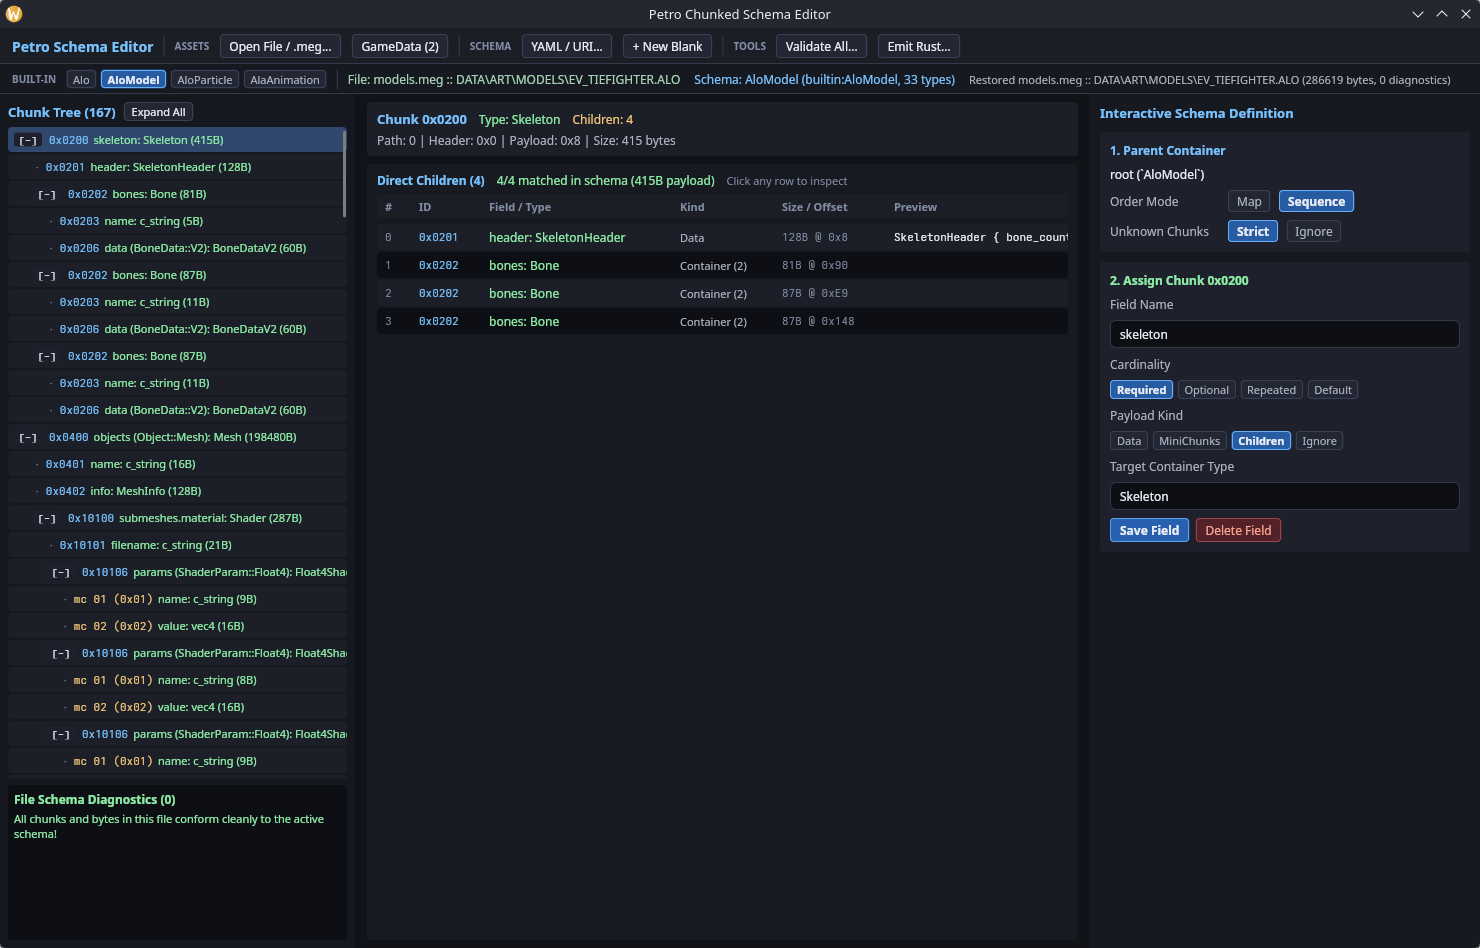
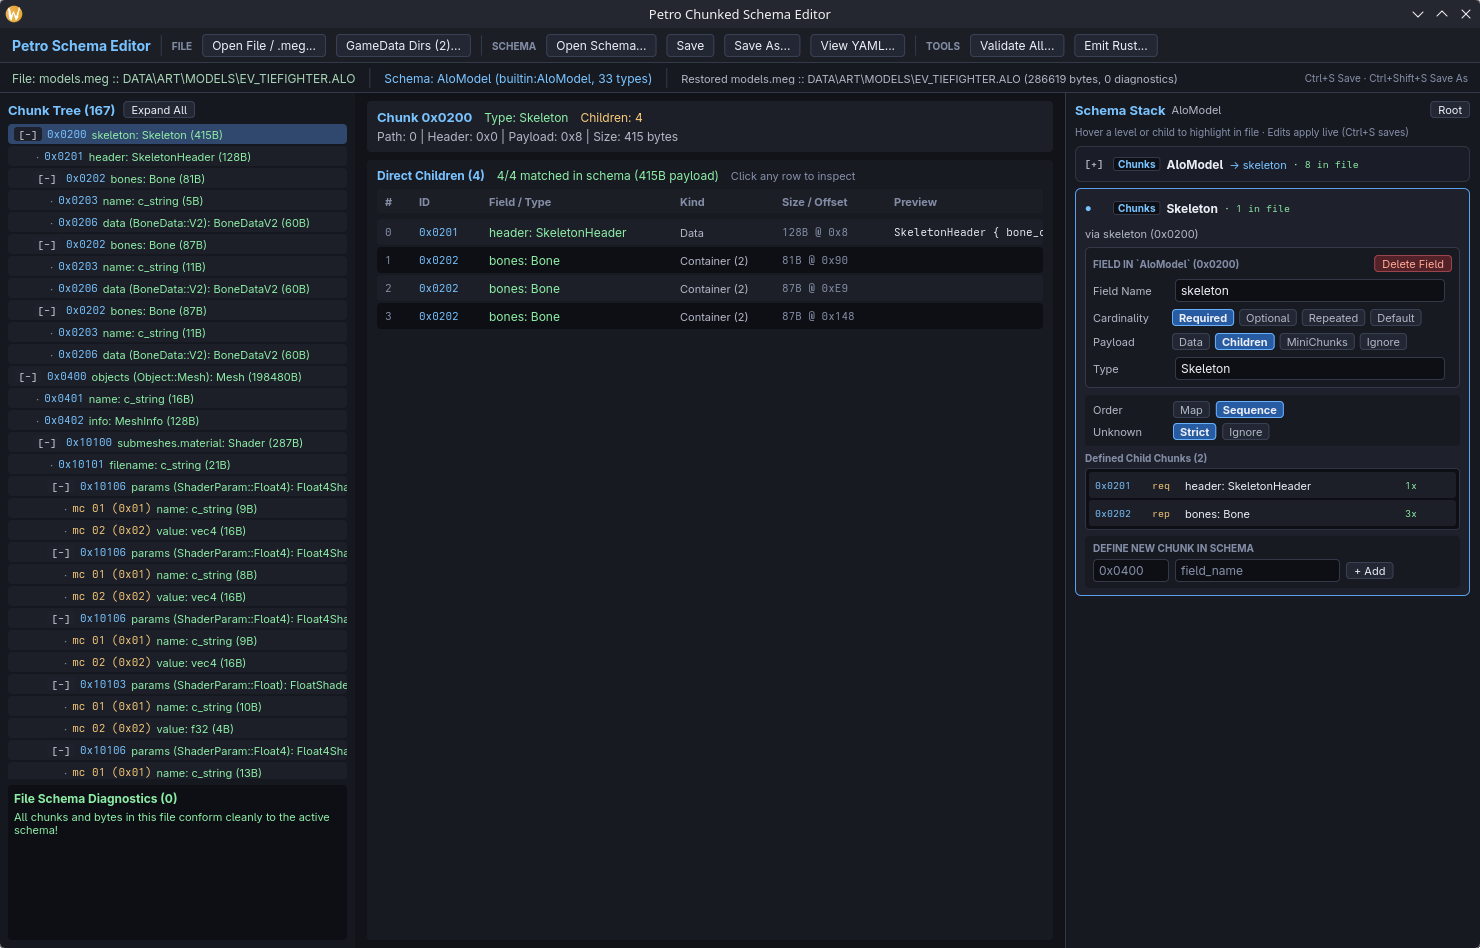
Refresh editor screenshots and README for Freya 0.5 multi-window UI and schema stack

Changed region(s): [[0.0, 0.0306, 0.9946, 0.8871], [0.4662, 0.2447, 0.4973, 0.3671], [0.9014, 0.5812, 0.9324, 0.6118]]

diff --git a/petro-chunked-schema-editor/README.md b/petro-chunked-schema-editor/README.md
@@ -1,8 +1,8 @@
 # `petro-chunked-schema-editor`
 
-Interactive [`freya`](https://freyaui.dev/)-based GUI schema editor, binary hex inspector, and CLI batch validator for Petroglyph's chunked binary file formats, built on `petro-chunked-schema` and `petro-meg`.
+Interactive [`freya`](https://freyaui.dev/) 0.5 multi-window GUI schema editor, binary hex inspector, and CLI batch validator for Petroglyph's chunked binary file formats, built on `petro-chunked-schema` and `petro-meg`.
 
-![Three-pane workspace inspecting MeshInfo chunk spans, live cursor byte preview, and interactive schema definition cards](./docs/screenshots/workspace-inspector.png)
+![Three-pane workspace inspecting MeshInfo chunk spans, live cursor byte preview, and the non-indenting right-rail Schema Stack](./docs/screenshots/workspace-inspector.png)
 
 ## Quick CLI Usage
 
@@ -23,33 +23,45 @@ petro-chunked-schema-editor --schema ./custom.yaml --file ./sample.map
 petro-chunked-schema-editor --schema file:builtin:local.yaml --emit-rust
 ```
 
+### Keyboard Shortcuts
+
+- **`Ctrl+S`**: Save the active schema to its current YAML file (or open the freestanding **Save Schema As** window if editing a built-in or unsaved schema).
+- **`Ctrl+Shift+S`**: Open the freestanding **Save Schema As** window.
+- **`Escape`**: Close the active freestanding dialog window (canceling any pending schema replacement).
+
 ---
 
 ## UI Tour
 
+### Non-Indenting Schema Stack, Absent Definitions & Hover Synchronization
+
+The right rail mirrors the left file tree as a **non-indenting vertical stack of equal-width cards** from the schema root down to the currently focused level. Ancestor cards stay collapsed by default and can be expanded to inspect **every** defined child field or enum variant—including optional or unrepresented definitions (`0x` in the current file, such as `Light`)—and click to switch levels or edit them live in memory. Hovering any schema level or child row highlights every matching chunk/mini-chunk row across the left-rail `Chunk Tree`.
+
+![Expanded Object enum in the right-rail Schema Stack showing absent Light variant and synchronized left-rail match highlights](./docs/screenshots/schema-stack-hover.png)
+
 ### Container Children Overview
 
-Selecting a 32-bit container chunk renders a clickable table of its immediate children (`#`, chunk ID, schema field/type, child kind, byte size/offset, and leaf value preview) alongside radio-style container and field controls.
+Selecting a 32-bit container chunk renders a clickable table of its immediate children (`#`, chunk ID, schema field/type, child kind, byte size/offset, and leaf value preview) alongside live auto-applying container and field controls.
 
 ![Container chunk direct children overview table in the center pane](./docs/screenshots/container-overview.png)
 
-### Loose File & In-Memory `.meg` Browser
+### Freestanding Disk & Browse-Into-`.meg` File Browser
 
-Browse loose files or filter Petroglyph `.meg` archives across configured `GameData` directories by extension and filename substring without extracting archives to disk.
+Browse local directories and step directly inside Petroglyph `.meg` archives as virtual folders (`models.meg / DATA / ART / MODELS`) with quick places, clickable breadcrumbs, extension filters, and recursive in-`.meg` substring search—without extracting files to disk.
 
-![Loose file and in-memory .meg archive browser modal](./docs/screenshots/file-browser.png)
+![Freestanding file browser window stepped inside models.meg virtual directories](./docs/screenshots/file-browser.png)
 
-### Batch Validation Across Game Assets
+### Unified Freestanding Open Schema Window
 
-Test any built-in or custom schema over every matching asset across configured `GameData` folders and `.meg` archives—for example validating all 2,073 `.alo` models and particle systems under the combined `builtin:Alo` dispatcher.
+Switch between embedded built-in schemas (`Alo`, `AloModel`, `AloParticle`, `AlaAnimation`), start a blank scratchpad schema, browse `.yaml` files on disk, or enter a `SchemaRef` URI—guarded by an **Unsaved Schema Changes** confirmation dialog whenever the active in-memory schema has unsaved edits.
 
-![Batch validation modal showing 2,073/2,073 .alo files passing under builtin:Alo](./docs/screenshots/batch-validate.png)
+![Freestanding Open Schema window combining built-in formats and a YAML file browser](./docs/screenshots/open-schema.png)
 
-### Live `petro-chunked-derive` Rust Code Generation
+### Live Freestanding `petro-chunked-derive` Rust Codegen Window
 
-Inspect and export `prettyplease`-formatted `petro-chunked-derive` Rust definitions (including imported submodules for schemas such as `builtin:Alo`) directly from the active schema.
+Inspect and export `prettyplease`-formatted `petro-chunked-derive` Rust definitions in a separate native OS window that updates live as you edit the schema in the main window.
 
-![Generated petro-chunked-derive Rust code modal](./docs/screenshots/rust-codegen.png)
+![Freestanding Generated Rust Code window showing prettyplease-formatted petro-chunked-derive output](./docs/screenshots/rust-codegen.png)
 
 ---
 
@@ -57,63 +69,70 @@ Inspect and export `prettyplease`-formatted `petro-chunked-derive` Rust definiti
 
 ### 1. Three-Layer Separation
 
-The binary is organized into three layers so headless validation, schema editing semantics, and rendering stay independent:
+The binary is organized into three layers so headless validation, virtual filesystem browsing, schema navigation/editing semantics, and Freya 0.5 rendering stay independent:
 
 ```text
   ┌─────────────────────────────────────────────────────────────────────┐
-  │ Presentation Layer (`ui/`)                                          │
-  │   Toolbar + StatusBar + Modals + 3-Pane Workspace (Freya components)│
+  │ Presentation Layer (`ui/`) — Freya 0.5 Multi-Window Builder API     │
+  │   Main Window (Toolbar + StatusBar + 3-Pane Workspace)              │
+  │   + Freestanding Modal Windows (File/.meg, GameData, Schema, Tools) │
   └───────────────┬───────────────────────────────────┬─────────────────┘
-                  │ reads / mutates signals           │ reads projections
+                  │ reads / mutates global State      │ reads projections
                   ▼                                   ▼
   ┌───────────────────────────────┐   ┌─────────────────────────────────┐
-  │ I/O, Persistence & CLI        │   │ Schema Operations (`editor_ops`)  │
-  │ (`cli`, `state`, `gamedata`)  │◄──┤   Tree flattening, span lookup, │
-  │   • Builtin & file SchemaRef  │   │   child overview projection,    │
-  │   • In-memory .meg reading    │   │   typed field upserts/deletes,  │
-  │   • Per-file overrides & JSON │   │   parent-first type creation    │
+  │ I/O, Browsing & CLI           │   │ Schema Ops & Stack Nav          │
+  │ (`cli`, `state`, `gamedata`,  │◄──┤ (`editor_ops`, `schema_nav`)    │
+  │  `browser`)                   │   │   • Tree flattening & spans     │
+  │   • Builtin & file SchemaRef  │   │   • Child overview projection   │
+  │   • Virtual disk + .meg tree  │   │   • Non-indenting stack builder │
+  │   • Batch validation          │   │   • Absent-definition listing   │
+  │   • `directories` persistence │   │   • Hover-target matching       │
   └───────────────────────────────┘   └─────────────────────────────────┘
 ```
 
-1. **I/O, Persistence & CLI (`cli`, `state`, `gamedata`)**
-   Resolves schemas via `SchemaRef`, scans `GameData` folders and `.meg` archives purely in memory (`petro-meg`), runs multi-file validation (`run_batch_validation`), and persists session state (`PersistedState`) under XDG config directories—remembering the last file, active `SchemaRef`, unsaved schema draft, `GameData` directories, and per-file `force_plain_data_paths` overrides.
+1. **I/O, Virtual Browsing, Persistence & CLI (`cli`, `state`, `gamedata`, `browser`)**
+   Resolves schemas via `SchemaRef`, navigates both disk directories and virtual `.meg` archive folder hierarchies (`BrowseLocation::DiskDir` / `BrowseLocation::MegDir`), runs in-memory batch validation (`run_batch_validation`), and persists session state (`PersistedState`) using canonical OS paths via [`directories::ProjectDirs`].
 
-2. **Schema Operations & UI Projection (`editor_ops`)**
-   Pure functions translating a parsed `DynamicFile` + `ResolvedSchema` into flat rows for the chunk tree (`build_flat_tree`) and resolved editing context + direct children summaries (`SelectedNodeDetails`, `ChildSummaryRow`, `resolve_selected_node`). Also implements schema edits (`upsert_chunk_field`, `delete_chunk_field`, `upsert_mini_chunk_field`, `delete_mini_chunk_field`, `append_field_to_node_byte_block`, `set_byte_block_pad_after`), automatically inserting new child containers immediately after their parent (`insert_type_after`) and guarding read-only imported nodes (`SchemaId != ROOT`).
+2. **Schema Operations & Stack Navigation (`editor_ops`, `schema_nav`)**
+   Pure functions translating a parsed `DynamicFile` + `ResolvedSchema` into flat rows for the chunk tree (`build_flat_tree`), direct children summaries (`ChildSummaryRow`, `SelectedNodeDetails`), ancestor schema stacks (`resolve_schema_stack_for_file_node`, `refresh_schema_stack`), full child/variant listings including `0`-match absent definitions (`list_level_children`), and multi-row hover matching (`matches_hover_target`). Schema mutations (`upsert_chunk_field`, `delete_chunk_field`, `upsert_mini_chunk_field`, `delete_mini_chunk_field`, `append_field_to_node_byte_block`, `set_byte_block_pad_after`) preserve parents-before-children ordering and guard imported modules (`SchemaId != ROOT`).
 
-3. **Freya Presentation (`ui/`)**
-   Declarative dark-themed GUI built from cohesive panes, modals, and shared widgets (`ActionButton`, `SegmentedChip`, `StyledInput`, `ToolbarDivider`, `GroupCaption`).
+3. **Freya 0.5 Multi-Window Presentation (`ui/`)**
+   Strongly-typed dark-themed UI built with Freya 0.5's builder API, `State::create_global`, and native multi-window spawning (`Platform::get().launch_window`).
 
 ---
 
-### 2. Freya UI Component & State Architecture
+### 2. Freya 0.5 Multi-Window & State Architecture
 
-#### State Boundary
+#### Global Cross-Window State
 
-Rather than threading dozens of signals through deep prop lists, [`EditorState`](src/ui/context.rs) is created once at the root via Freya's context provider (`use_context_provider`). It owns shared reactive state (`persisted`, `schema`, `resolved_schema`, `dynamic_file`, `selected_tree_path`, `selected_byte_offset`, `active_modal`, `status_msg`, etc.) and exposes semantic domain methods (`open_file`, `load_schema_ref`, `start_blank_schema`, `mutate_schema`, `toggle_force_plain_data`, `select_node`, `jump_to_byte`, `toggle_collapse`).
+[`EditorState`](src/ui/context.rs) is created once via `State::create_global(...)` before `launch(...)` and provided to every OS window (`WindowConfig::with_root_context`). It owns shared reactive state (`persisted`, `schema`, `resolved_schema`, `saved_schema_yaml`, `is_schema_dirty`, `pending_schema_action`, `dynamic_file`, `selected_tree_path`, `schema_stack`, `expanded_stack_levels`, `hovered_schema_target`, `open_windows`, `status_msg`) and exposes semantic domain actions (`open_file`, `open_modal`, `request_load_schema_ref`, `request_new_blank_schema`, `save_schema`, `save_schema_as`, `mutate_schema`, `select_node`, `select_schema_child`, `focus_schema_level`, `set_hovered_schema_target`).
 
-Transient dialog inputs (search filters, directory text boxes, validation reports, YAML/Rust text buffers) stay encapsulated as local `use_signal` hooks inside each modal component so typing in a modal does not invalidate workspace panes.
+Because every window reads the same global reactive state, edits applied live in the main window immediately update open freestanding **View YAML** and **Emit Rust** windows, while transient dialog inputs (search filters, directory locations, filenames, validation reports) remain local `use_state` hooks inside each modal window.
 
-#### Component Hierarchy
+#### Window & Component Hierarchy
 
 ```text
-  app (ui::app)
-   ├── Toolbar                      Grouped ASSETS / SCHEMA / TOOLS command bar
-   ├── StatusBar                    BUILT-IN schema radio strip + active file/schema/status context
-   ├── ModalHost                    Modal backdrop & active modal dispatcher
-   │    ├── FileBrowserModal        Browse loose files & in-memory .meg entries across GameData dirs
-   │    ├── GameDataDirsModal       Manage GameData directories & auto-detect common installs
-   │    ├── BatchValidateModal      Run multi-file validation for an extension and inspect failures
-   │    ├── RustCodegenModal        Inspect & save generated petro-chunked-derive Rust source
-   │    └── YamlSchemaModal         Edit raw YAML, save to disk, or load by SchemaRef URI
-   └── Workspace                    Three-column synchronized inspector & schema editor
-        ├── ChunkTreePane           Hierarchical chunk/mini-chunk tree (`ChunkTreeRow`)
-        │                           + validation errors (`DiagnosticsPanel`)
-        ├── HexInspectorPane        `NodeHeaderBar` + `ContainerOverviewPanel` (for container chunks)
-        │                           or `MiniChunkStripPanel` + `SpanLegend` + `HexPaginationBar`
-        │                           + color-coded `HexGrid` + `BytePreviewPanel` (for leaf payloads)
-        └── SchemaEditorPane        Read-only notice for imports, or live editing cards with radio chips:
-                                    `ContainerSettingsCard`, `FieldAssignmentCard`, `ByteBlockEditorCard`
+  ui::launch_editor (LaunchConfig + global EditorState)
+   ├── Main Window (1480×920, Ctrl+S / Ctrl+Shift+S)
+   │    ├── Toolbar                 Grouped FILE / SCHEMA / TOOLS command bar (`Save*` dirty indicator)
+   │    ├── StatusBar               Active file, schema + dirty `*`, live status, shortcut hints
+   │    └── Workspace               Three-column synchronized inspector & schema stack
+   │         ├── ChunkTreePane      Hierarchical chunk/mini-chunk tree with right-rail hover glow
+   │         │                      + file schema diagnostics (`DiagnosticsPanel`)
+   │         ├── HexInspectorPane   Container direct-children table, or mini-chunk strip, span legend,
+   │         │                      paginated color-coded hex grid, and live cursor byte inspector
+   │         └── SchemaEditorPane   Non-indenting vertical stack of `SchemaStackCard`s with collapsible
+   │                                ancestors, absent child switching, live auto-apply field/ByteBlock
+   │                                editors, and mouseover hover sync
+   └── Freestanding Modal Windows (`Platform::get().launch_window`, Escape to close)
+        ├── FileBrowserWindow       Hierarchical disk + browse-into-`.meg` virtual folder browser
+        ├── GameDataDirsWindow      Configured GameData dirs list + visual folder picker & auto-detect
+        ├── OpenSchemaWindow        Built-in schemas + scratchpad + YAML file browser + manual URI
+        ├── SaveSchemaAsWindow      Visual directory & `.yaml` browser + filename input
+        ├── ConfirmDiscardWindow    Unsaved schema edits safeguard (`Save & Continue` / `Discard` / `Cancel`)
+        ├── YamlPreviewWindow       Live read-only YAML serialization viewer with `Save` / `Save As...`
+        ├── BatchValidateWindow     Multi-file validation over GameData dirs & `.meg` archives
+        └── RustCodegenWindow       Live `prettyplease`-formatted `petro-chunked-derive` Rust viewer/exporter
 ```
 
 ---
@@ -122,23 +141,28 @@ Transient dialog inputs (search filters, directory text boxes, validation report
 
 | Path | Responsibility |
 |---|---|
-| [`src/main.rs`](./src/main.rs) | Crate entrypoint routing between CLI mode and Freya window launch. |
+| [`src/main.rs`](./src/main.rs) | Crate entrypoint routing between CLI mode and Freya 0.5 multi-window launch. |
 | [`src/cli.rs`](./src/cli.rs) | `clap` CLI flags (`--schema`, `--file`, `--game-data`, `--validate`, `--emit-rust`) and headless runners. |
-| [`src/state.rs`](./src/state.rs) | Session persistence (`PersistedState`), `FileSource` (`Disk` / `MegEntry`), per-file plain-data overrides. |
-| [`src/gamedata.rs`](./src/gamedata.rs) | `.meg` + disk discovery, byte loading, `SchemaRef` loading/saving, and `run_batch_validation`. |
-| [`src/editor_ops.rs`](./src/editor_ops.rs) | Pure tree flattening, container child overview projection (`ChildSummaryRow`), node resolution, and schema mutation helpers. |
-| [`src/ui/mod.rs`](./src/ui/mod.rs) | Root `app` layout initializing `DARK_THEME` and wiring `Toolbar`, `StatusBar`, `ModalHost`, and `Workspace`. |
-| [`src/ui/theme.rs`](./src/ui/theme.rs) | Shared dark UI palette tokens, border styles, and color-coded byte span palette. |
-| [`src/ui/widgets.rs`](./src/ui/widgets.rs) | Shared styled primitives (`ActionButton`, `SegmentedChip`, `StyledInput`, `ToolbarDivider`, `GroupCaption`). |
-| [`src/ui/context.rs`](./src/ui/context.rs) | `EditorState` context provider and domain actions. |
-| [`src/ui/toolbar.rs`](./src/ui/toolbar.rs) | Grouped command toolbar (`ASSETS`, `SCHEMA`, `TOOLS`) and built-in radio strip / status bar. |
-| [`src/ui/modals/mod.rs`](./src/ui/modals/mod.rs) | Modal host wrapper and shared dialog frame (`ModalFrame`). |
-| [`src/ui/modals/file_browser.rs`](./src/ui/modals/file_browser.rs) | `FileBrowserModal` for loose & `.meg` assets. |
-| [`src/ui/modals/gamedata_dirs.rs`](./src/ui/modals/gamedata_dirs.rs) | `GameDataDirsModal` for directory configuration. |
-| [`src/ui/modals/batch_validate.rs`](./src/ui/modals/batch_validate.rs) | `BatchValidateModal` for batch validation and click-to-open failures. |
-| [`src/ui/modals/rust_codegen.rs`](./src/ui/modals/rust_codegen.rs) | `RustCodegenModal` displaying generated Rust code. |
-| [`src/ui/modals/yaml_schema.rs`](./src/ui/modals/yaml_schema.rs) | `YamlSchemaModal` for direct YAML editing, saving, and `SchemaRef` loading. |
+| [`src/state.rs`](./src/state.rs) | Session persistence (`PersistedState`) via `directories::ProjectDirs`, `FileSource` (`Disk` / `MegEntry`), per-file plain-data overrides. |
+| [`src/gamedata.rs`](./src/gamedata.rs) | In-memory `.meg` & disk byte loading, `SchemaRef` loading/saving, EAW/FoC auto-detection, and `run_batch_validation`. |
+| [`src/browser.rs`](./src/browser.rs) | Virtual filesystem & browse-into-`.meg` navigation (`BrowseLocation`, `list_location`, breadcrumbs, quick places). |
+| [`src/editor_ops.rs`](./src/editor_ops.rs) | Pure tree flattening (`FlatTreeRow`), container child overview (`ChildSummaryRow`), node resolution, and schema mutation helpers. |
+| [`src/schema_nav.rs`](./src/schema_nav.rs) | Schema-stack ancestor resolution (`SchemaStackStep`), absent-definition enumeration (`list_level_children`), and hover matching (`matches_hover_target`). |
+| [`src/ui/mod.rs`](./src/ui/mod.rs) | Multi-window `launch_editor` setup, global `Ctrl+S` / `Ctrl+Shift+S` handling, and main window shell. |
+| [`src/ui/theme.rs`](./src/ui/theme.rs) | Strongly-typed Freya 0.5 `Color` tokens, `Border` helpers, and byte-span color palette. |
+| [`src/ui/widgets.rs`](./src/ui/widgets.rs) | Shared styled primitives (`action_button`, `segmented_chip`, `styled_input`, `styled_input_live`, `toolbar_divider`, `group_caption`). |
+| [`src/ui/context.rs`](./src/ui/context.rs) | Cross-window global `EditorState`, freestanding window registry (`ModalKind`), dirty tracking, and domain actions. |
+| [`src/ui/toolbar.rs`](./src/ui/toolbar.rs) | Grouped `FILE` / `SCHEMA` / `TOOLS` command bar and session status bar. |
+| [`src/ui/modals/mod.rs`](./src/ui/modals/mod.rs) | Freestanding window root dispatcher (`modal_window_root`), `Escape` close hook, shared `browser_nav_bar`, and `quick_places_sidebar`. |
+| [`src/ui/modals/file_browser.rs`](./src/ui/modals/file_browser.rs) | `FileBrowserWindow` for browsing disk folders and stepping inside `.meg` archives. |
+| [`src/ui/modals/gamedata_dirs.rs`](./src/ui/modals/gamedata_dirs.rs) | `GameDataDirsWindow` with configured dirs list and visual folder picker. |
+| [`src/ui/modals/open_schema.rs`](./src/ui/modals/open_schema.rs) | `OpenSchemaWindow` unifying built-in formats, blank schema creation, and YAML browsing. |
+| [`src/ui/modals/save_schema_as.rs`](./src/ui/modals/save_schema_as.rs) | `SaveSchemaAsWindow` for choosing destination YAML files. |
+| [`src/ui/modals/confirm_discard.rs`](./src/ui/modals/confirm_discard.rs) | `ConfirmDiscardWindow` safeguarding unsaved in-memory schema edits. |
+| [`src/ui/modals/yaml_schema.rs`](./src/ui/modals/yaml_schema.rs) | `YamlPreviewWindow` displaying live serialized YAML. |
+| [`src/ui/modals/batch_validate.rs`](./src/ui/modals/batch_validate.rs) | `BatchValidateWindow` for batch validation and click-to-open failures. |
+| [`src/ui/modals/rust_codegen.rs`](./src/ui/modals/rust_codegen.rs) | `RustCodegenWindow` displaying and exporting live generated Rust code. |
 | [`src/ui/workspace/mod.rs`](./src/ui/workspace/mod.rs) | Three-pane horizontal workspace container. |
-| [`src/ui/workspace/chunk_tree.rs`](./src/ui/workspace/chunk_tree.rs) | Left tree view (`ChunkTreePane`, `ChunkTreeRow`, `DiagnosticsPanel`). |
-| [`src/ui/workspace/hex_inspector.rs`](./src/ui/workspace/hex_inspector.rs) | Center container children table (`ContainerOverviewPanel`), leaf hex viewer, span highlighting, pagination, and cursor decoder. |
-| [`src/ui/workspace/schema_editor.rs`](./src/ui/workspace/schema_editor.rs) | Right schema authoring cards (`ContainerSettingsCard`, `FieldAssignmentCard`, `ByteBlockEditorCard`) and smart wire-format filters. |
+| [`src/ui/workspace/chunk_tree.rs`](./src/ui/workspace/chunk_tree.rs) | Left tree view (`ChunkTreePane`, `DiagnosticsPanel`) with right-rail hover highlight sync. |
+| [`src/ui/workspace/hex_inspector.rs`](./src/ui/workspace/hex_inspector.rs) | Center container children table, leaf hex viewer, span highlighting, pagination, and cursor decoder. |
+| [`src/ui/workspace/schema_editor.rs`](./src/ui/workspace/schema_editor.rs) | Right non-indenting `SchemaStackCard` rail with collapsible parents, absent-definition switching, live auto-apply editors, and hover sync. |
